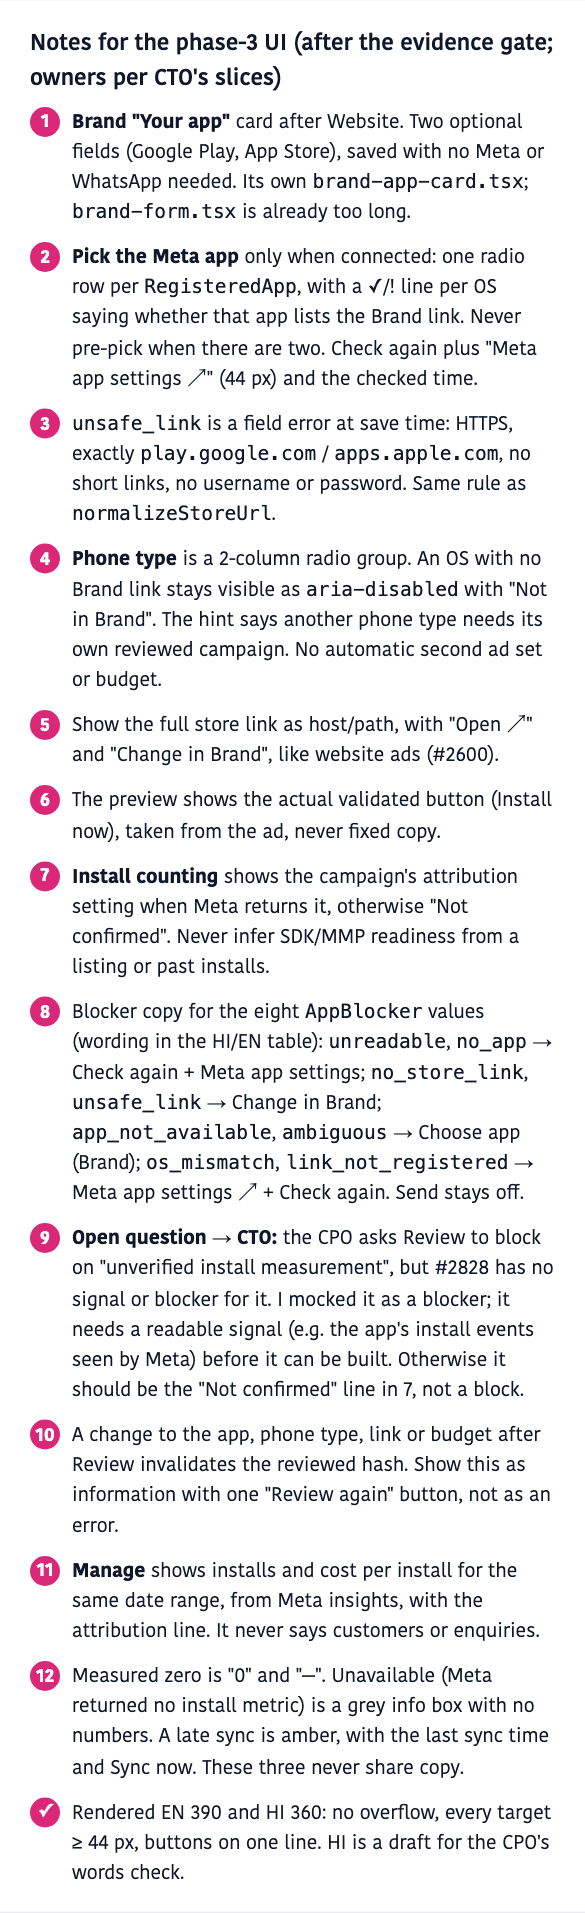
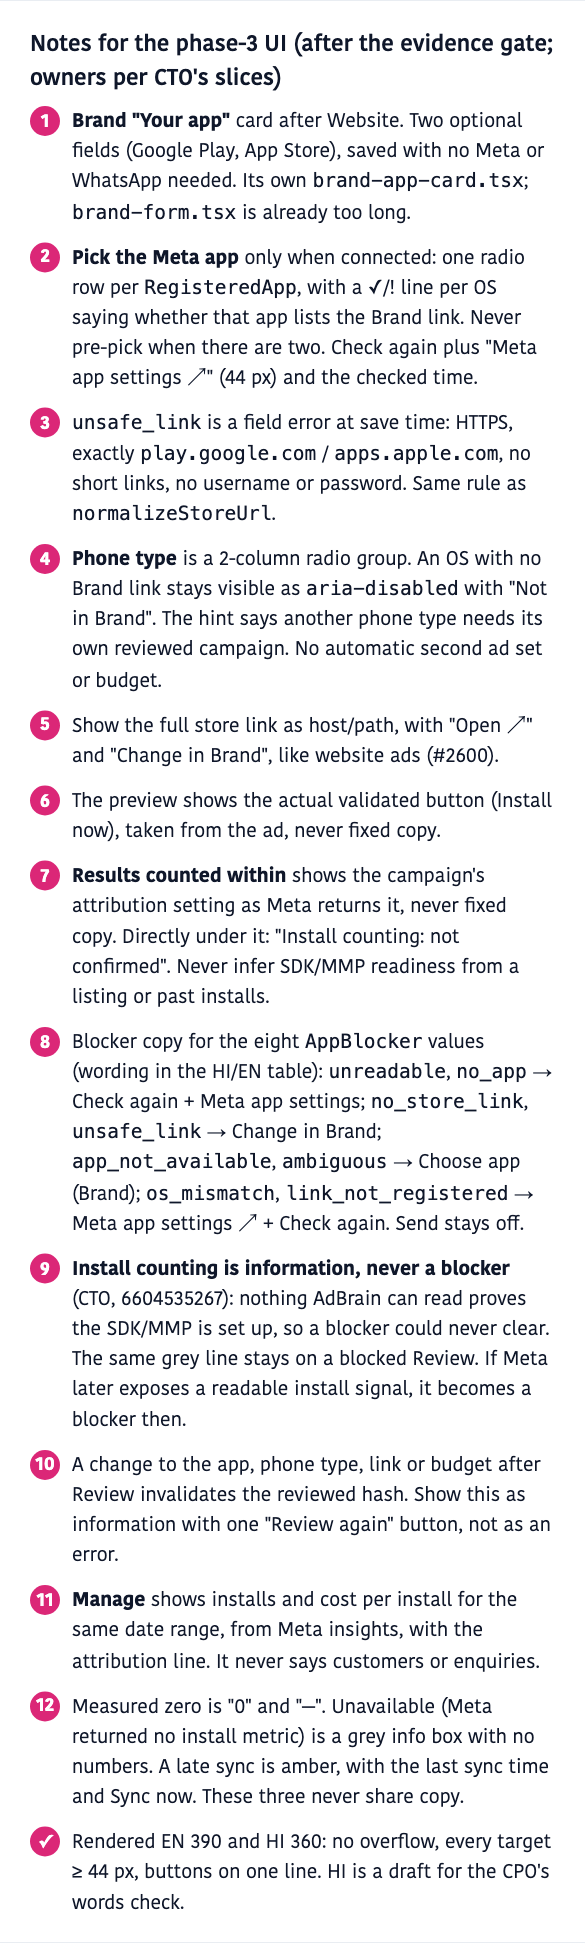
#2595 phase 3 mock: install counting is a Not confirmed line, not a blocker (CTO note 9)

diff --git a/2595/d3-app-installs.html b/2595/d3-app-installs.html
@@ -180,7 +180,7 @@
           <div><dt data-t="app"></dt><dd>Cedar Ridge Booking</dd><dd class="sub" data-t="appSub"></dd></div>
           <div><dt data-t="storeLink"></dt><dd class="url"><span class="host">play.google.com</span><span class="path">/store/apps/details?id=in.cedarridge.book</span></dd><dd class="sub" data-t="buttonInstall"></dd></div>
           <div><dt data-t="whoSees"></dt><dd data-t="whoSeesVal"></dd></div>
-          <div class="ann"><span class="pin">7</span><dt data-t="counting"></dt><dd data-t="countingVal"></dd><dd class="sub" data-t="countingSub"></dd></div>
+          <div class="ann"><span class="pin">7</span><dt data-t="attribution"></dt><dd data-t="attributionVal"></dd><dd class="sub" data-t="countingLine"></dd><dd class="sub" data-t="countingSub"></dd></div>
           <div><dt data-t="dates"></dt><dd data-t="datesVal"></dd></div>
           <div><dt data-t="budget"></dt><dd data-t="budgetVal"></dd></div>
         </dl>
@@ -197,8 +197,7 @@
       <div><h2 data-t="reviewBlocked"></h2><p class="muted" data-t="paused"></p></div>
       <div class="state ann"><span class="pin">8</span><b data-t="linkNotRegTitle"></b><span data-t="linkNotRegBody"></span>
         <div class="actions"><span class="btn" data-t="checkAgain"></span><a class="link" data-t="metaAppSettings"></a></div></div>
-      <div class="state ann"><span class="pin">9</span><b data-t="countingBlockTitle"></b><span data-t="countingBlockBody"></span>
-        <div class="actions"><span class="btn" data-t="checkAgain"></span><a class="link" data-t="howToCount"></a></div></div>
+      <div class="state info ann"><span class="pin">9</span><b data-t="countingLine"></b><span data-t="countingSub"></span></div>
       <div class="state info ann"><span class="pin">10</span><b data-t="changedTitle"></b><span data-t="changedBody"></span>
         <div class="actions"><span class="btn" data-t="reviewAgain"></span></div></div>
       <span class="btn primary off" aria-disabled="true" data-t="send"></span>
@@ -236,9 +235,9 @@
     <li><span class="pin">4</span><span><b>Phone type</b> is a 2-column radio group. An OS with no Brand link stays visible as <code>aria-disabled</code> with "Not in Brand". The hint says another phone type needs its own reviewed campaign. No automatic second ad set or budget.</span></li>
     <li><span class="pin">5</span><span>Show the full store link as host/path, with "Open ↗" and "Change in Brand", like website ads (#2600).</span></li>
     <li><span class="pin">6</span><span>The preview shows the actual validated button (Install now), taken from the ad, never fixed copy.</span></li>
-    <li><span class="pin">7</span><span><b>Install counting</b> shows the campaign's attribution setting when Meta returns it, otherwise "Not confirmed". Never infer SDK/MMP readiness from a listing or past installs.</span></li>
+    <li><span class="pin">7</span><span><b>Results counted within</b> shows the campaign's attribution setting as Meta returns it, never fixed copy. Directly under it: "Install counting: not confirmed". Never infer SDK/MMP readiness from a listing or past installs.</span></li>
     <li><span class="pin">8</span><span>Blocker copy for the eight <code>AppBlocker</code> values (wording in the HI/EN table): <code>unreadable</code>, <code>no_app</code> → Check again + Meta app settings; <code>no_store_link</code>, <code>unsafe_link</code> → Change in Brand; <code>app_not_available</code>, <code>ambiguous</code> → Choose app (Brand); <code>os_mismatch</code>, <code>link_not_registered</code> → Meta app settings ↗ + Check again. Send stays off.</span></li>
-    <li><span class="pin">9</span><span><b>Open question → CTO:</b> the CPO asks Review to block on "unverified install measurement", but #2828 has no signal or blocker for it. I mocked it as a blocker; it needs a readable signal (e.g. the app's install events seen by Meta) before it can be built. Otherwise it should be the "Not confirmed" line in 7, not a block.</span></li>
+    <li><span class="pin">9</span><span><b>Install counting is information, never a blocker</b> (CTO, 6604535267): nothing AdBrain can read proves the SDK/MMP is set up, so a blocker could never clear. The same grey line stays on a blocked Review. If Meta later exposes a readable install signal, it becomes a blocker then.</span></li>
     <li><span class="pin">10</span><span>A change to the app, phone type, link or budget after Review invalidates the reviewed hash. Show this as information with one "Review again" button, not as an error.</span></li>
     <li><span class="pin">11</span><span><b>Manage</b> shows installs and cost per install for the same date range, from Meta insights, with the attribution line. It never says customers or enquiries.</span></li>
     <li><span class="pin">12</span><span>Measured zero is "0" and "—". Unavailable (Meta returned no install metric) is a grey info box with no numbers. A late sync is amber, with the last sync time and Sync now. These three never share copy.</span></li>
@@ -286,24 +285,21 @@ const T = {
     app: "App", appSub: "Android · checked on this ad account at 14:05",
     storeLink: "People will go to", buttonInstall: "Button: Install now",
     whoSees: "Who sees it", whoSeesVal: "People on Android phones, 25 km around Indiranagar",
-    counting: "Install counting",
-    countingVal: "Not confirmed",
-    countingSub: "Meta counts an install only when your app reports it to Meta. AdBrain can't check your app's setup.",
+    countingLine: "Install counting: not confirmed",
+    countingSub: "Meta counts installs only if your app reports them. AdBrain can't check your app's setup.",
+    attribution: "Results counted within", attributionVal: "1 day after a click",
     dates: "Dates", datesVal: "From 4 Nov, no end date",
     budget: "Budget", budgetVal: "₹500 a day · up to ₹3,500 a week",
     expectInstalls: "AdBrain hasn't run enough app campaigns yet to quote a cost per install.",
     send: "Send to Meta (paused)",
     linkNotRegTitle: "Meta doesn't list this link for Cedar Ridge Booking",
     linkNotRegBody: "In your Meta app settings, add Android with this Google Play link, then check again.",
-    countingBlockTitle: "Install counting isn't set up for this app",
-    countingBlockBody: "Meta hasn't seen your app report any activity, so installs wouldn't be counted. Set up Meta's SDK or your measurement partner, then check again.",
-    howToCount: "How to set it up ↗",
     changedTitle: "The app link changed after Review",
     changedBody: "Review again so you approve exactly what goes to Meta.",
     reviewAgain: "Review again",
     manageRange: "Last 7 days · 28 Oct – 3 Nov",
     installs: "installs", perInstall: "per install",
-    spentLine: "₹2,310 spent · counted 7 days after a click",
+    spentLine: "₹2,310 spent · counted 1 day after a click",
     notCustomers: "Installs Meta reports for these dates. They aren't customers or enquiries.",
     unavailTitle: "Meta hasn't shared installs for this campaign.",
     unavailBody: "Spend and clicks are still shown. Installs appear here once Meta reports them.",
@@ -349,24 +345,21 @@ const T = {
     app: "ऐप", appSub: "Android · 14:05 पर इस विज्ञापन खाते पर जाँचा",
     storeLink: "लोग यहाँ जाएँगे", buttonInstall: "बटन: अभी इंस्टॉल करें",
     whoSees: "किसे दिखेगा", whoSeesVal: "इंदिरानगर के 25 किमी में Android फ़ोन वाले लोग",
-    counting: "इंस्टॉल की गिनती",
-    countingVal: "पक्का नहीं",
-    countingSub: "Meta इंस्टॉल तभी गिनता है जब आपका ऐप उसे Meta को बताता है। AdBrain आपके ऐप का सेटअप नहीं जाँच सकता।",
+    countingLine: "इंस्टॉल की गिनती: पक्का नहीं",
+    countingSub: "Meta इंस्टॉल तभी गिनता है जब आपका ऐप उन्हें Meta को बताए। AdBrain आपके ऐप का सेटअप नहीं जाँच सकता।",
+    attribution: "नतीजे गिनने की अवधि", attributionVal: "क्लिक के 1 दिन बाद तक",
     dates: "तारीख़ें", datesVal: "4 नवंबर से, कोई आख़िरी तारीख़ नहीं",
     budget: "बजट", budgetVal: "₹500 रोज़ · हफ़्ते में ₹3,500 तक",
     expectInstalls: "AdBrain ने अभी इतने ऐप कैंपेन नहीं चलाए हैं कि प्रति इंस्टॉल खर्च बता सके।",
     send: "Meta को भेजें (रुका हुआ)",
     linkNotRegTitle: "Meta में Cedar Ridge Booking के लिए यह लिंक दर्ज नहीं है",
     linkNotRegBody: "अपनी Meta ऐप सेटिंग में इस Google Play लिंक के साथ Android जोड़ें, फिर दोबारा जाँचें।",
-    countingBlockTitle: "इस ऐप के लिए इंस्टॉल की गिनती सेट नहीं है",
-    countingBlockBody: "Meta को आपके ऐप से कोई गतिविधि नहीं मिली, इसलिए इंस्टॉल गिने नहीं जाएँगे। Meta का SDK या अपना मेज़रमेंट पार्टनर सेट करें, फिर दोबारा जाँचें।",
-    howToCount: "कैसे सेट करें ↗",
     changedTitle: "रिव्यू के बाद ऐप का लिंक बदला",
     changedBody: "फिर से रिव्यू करें, ताकि Meta को वही जाए जो आपने मंज़ूर किया।",
     reviewAgain: "फिर से रिव्यू करें",
     manageRange: "पिछले 7 दिन · 28 अक्टूबर – 3 नवंबर",
     installs: "इंस्टॉल", perInstall: "प्रति इंस्टॉल",
-    spentLine: "₹2,310 खर्च · क्लिक के 7 दिन तक गिना गया",
+    spentLine: "₹2,310 खर्च · क्लिक के 1 दिन तक गिना गया",
     notCustomers: "इन तारीख़ों के लिए Meta के बताए इंस्टॉल। ये ग्राहक या पूछताछ नहीं हैं।",
     unavailTitle: "Meta ने इस कैंपेन के इंस्टॉल नहीं बताए हैं।",
     unavailBody: "खर्च और क्लिक अब भी दिख रहे हैं। Meta के बताते ही इंस्टॉल यहाँ दिखेंगे।",
